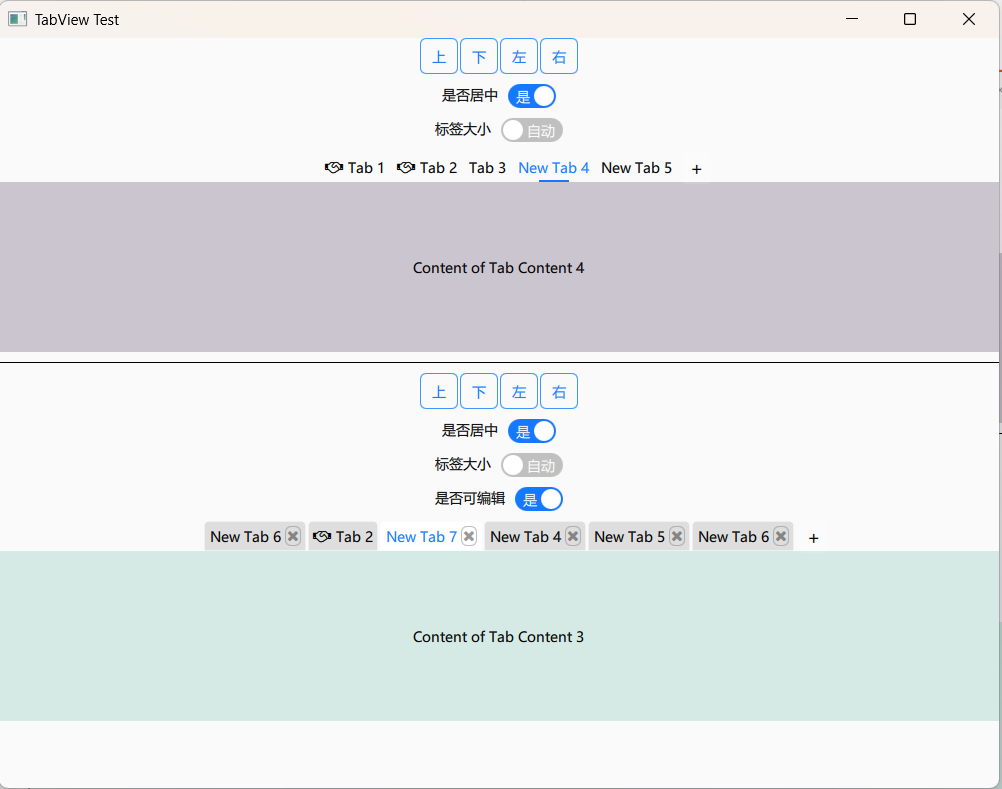
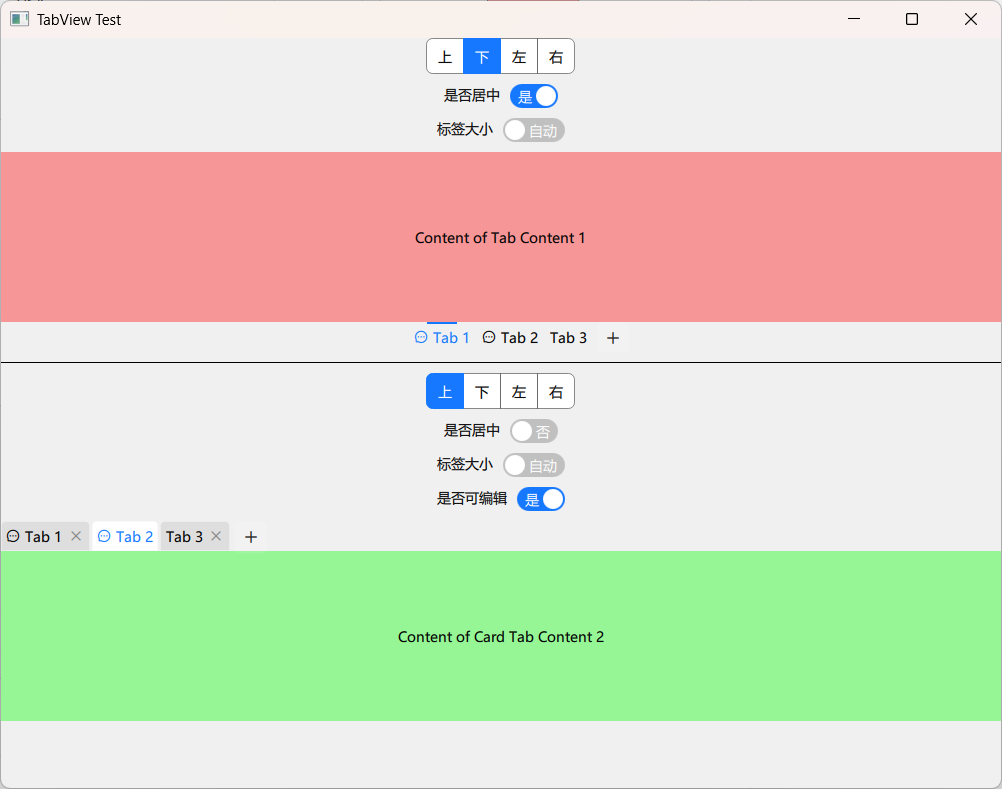
Update: 示例更新.

diff --git a/TabView/main.qml b/TabView/main.qml
@@ -2,9 +2,10 @@ import QtQuick 2.15
 import QtQuick.Window 2.15
 import QtQuick.Controls 2.15
 
+import "qrc:/../common"
 import "qrc:/../Button"
 import "qrc:/../Switch"
-import "qrc:/../common"
+import "qrc:/../RadioBlock"
 
 Window {
     width: 1000
@@ -21,25 +22,15 @@ Window {
             anchors.horizontalCenter: parent.horizontalCenter
             spacing: 2
 
-            DelButton {
-                text: qsTr("上")
-                type: DelButton.Type_Outlined
-                onClicked: defaultTabView.tabPosition = DelTabView.Position_Top;
-            }
-            DelButton {
-                text: qsTr("下")
-                type: DelButton.Type_Outlined
-                onClicked: defaultTabView.tabPosition = DelTabView.Position_Bottom;
-            }
-            DelButton {
-                text: qsTr("左")
-                type: DelButton.Type_Outlined
-                onClicked: defaultTabView.tabPosition = DelTabView.Position_Left;
-            }
-            DelButton {
-                text: qsTr("右")
-                type: DelButton.Type_Outlined
-                onClicked: defaultTabView.tabPosition = DelTabView.Position_Right;
+            DelRadioBlock {
+                id: positionRadio1
+                initCheckedIndex: 0
+                model: [
+                    { label: qsTr("上"), value: DelTabView.Position_Top },
+                    { label: qsTr("下"), value: DelTabView.Position_Bottom },
+                    { label: qsTr("左"), value: DelTabView.Position_Left },
+                    { label: qsTr("右"), value: DelTabView.Position_Right }
+                ]
             }
         }
 
@@ -88,6 +79,7 @@ Window {
             width: parent.width
             height: 200
             defaultTabWidth: 50
+            tabPosition: positionRadio1.currentCheckedValue
             tabSize: sizeSwitch.checked ? DelTabView.Size_Fixed : DelTabView.Size_Auto
             tabCentered: isCenterSwitch.checked
             addTabCallback:
@@ -146,25 +138,15 @@ Window {
             anchors.horizontalCenter: parent.horizontalCenter
             spacing: 2
 
-            DelButton {
-                text: qsTr("上")
-                type: DelButton.Type_Outlined
-                onClicked: cardTabView.tabPosition = DelTabView.Position_Top;
-            }
-            DelButton {
-                text: qsTr("下")
-                type: DelButton.Type_Outlined
-                onClicked: cardTabView.tabPosition = DelTabView.Position_Bottom;
-            }
-            DelButton {
-                text: qsTr("左")
-                type: DelButton.Type_Outlined
-                onClicked: cardTabView.tabPosition = DelTabView.Position_Left;
-            }
-            DelButton {
-                text: qsTr("右")
-                type: DelButton.Type_Outlined
-                onClicked: cardTabView.tabPosition = DelTabView.Position_Right;
+            DelRadioBlock {
+                id: positionRadio2
+                initCheckedIndex: 0
+                model: [
+                    { label: qsTr("上"), value: DelTabView.Position_Top },
+                    { label: qsTr("下"), value: DelTabView.Position_Bottom },
+                    { label: qsTr("左"), value: DelTabView.Position_Left },
+                    { label: qsTr("右"), value: DelTabView.Position_Right }
+                ]
             }
         }
 
@@ -233,6 +215,7 @@ Window {
             width: parent.width
             height: 200
             defaultTabWidth: 50
+            tabPosition: positionRadio2.currentCheckedValue
             tabSize: sizeSwitch2.checked ? DelTabView.Size_Fixed : DelTabView.Size_Auto
             tabType: typeSwitch.checked ? DelTabView.Type_CardEditable :  DelTabView.Type_Card
             tabCentered: isCenterSwitch2.checked
